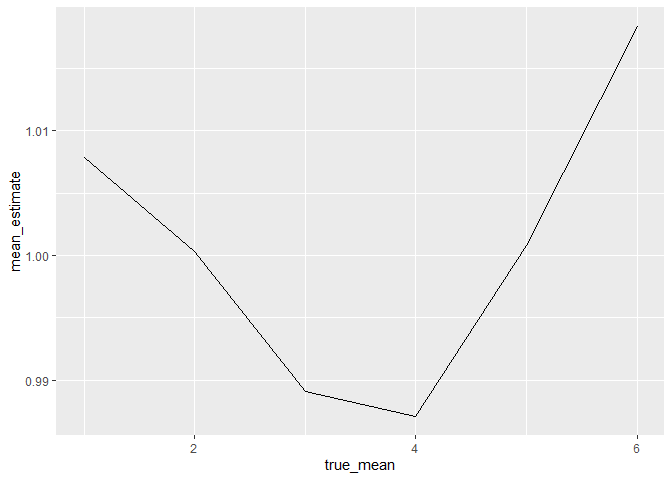
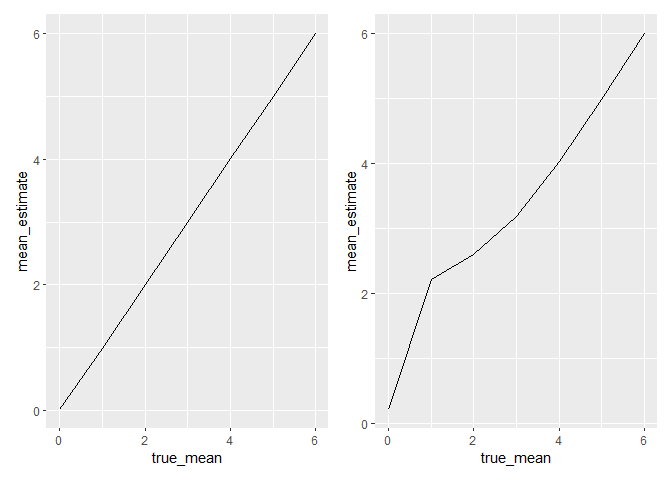
explanations of plots

diff --git a/Homework_5.md b/Homework_5.md
@@ -28,53 +28,66 @@ sim_res %>%
 
 ![](Homework_5_files/figure-gfm/unnamed-chunk-1-1.png)<!-- -->
 
+As the amount of people in the room increases, the probability that 2
+people have the same birthday also increases. The probability that 2
+people have the same birthday reaches 1 at around n = 50. This means if
+there are 50 people in the room, we are certain to have at least 2
+people share a birthday.
+
 # Problem 2
 
 ``` r
-normal_dist <- function(n, true_mean, sd = 5) {
-  sim_data <- rnorm(n = 30, mean = true_mean, sd = 5)
-  t_test <- t.test(sim_data)
-  results <- broom::tidy(t_test)
-  
+ttest <- function(data) {
+  t_test <- t.test(data) %>%  
+    broom::tidy(t_test)
+  return(t_test)
 }
 
 sim_results_df <- 
   expand_grid(
-    sample_size = 30,
-    true_mean = c(1,2,3,4,5,6),
+    true_mean = 0:6,
     iter = 1:5000
   ) %>% 
   mutate(
-    estimate_df = map(sample_size, \(x) normal_dist(x,true_mean, sd))) %>% 
-      unnest(estimate_df) %>% select(estimate, p.value, true_mean) 
+    estimate_df = map(true_mean, \(x) rnorm(30, x, 5)), 
+    test = map(estimate_df, ttest)) %>% 
+  unnest(test)
 
-sim_results_df %>% 
-  filter(p.value < 0.05) %>% 
-  group_by(true_mean) %>% 
-  summarize(count = n()) %>% 
-  ggplot(aes(x = true_mean, y = count)) + geom_line()
+sim_results_df %>%
+  group_by(true_mean) %>%
+ mutate(prop = mean((p.value < .05))) %>%
+  ggplot(aes(x = true_mean, y = prop)) +
+  geom_line()
 ```
 
 ![](Homework_5_files/figure-gfm/unnamed-chunk-2-1.png)<!-- -->
 
+As the true mean increases, power increases. When `true_mean` equals to
+6, the power goes to 1.
+
 ``` r
-sim_results_df %>% 
+full_dataplot <- 
+  sim_results_df %>% 
   group_by(true_mean) %>% 
   summarize(mean_estimate = mean(estimate, na.rm = TRUE)) %>% 
   ggplot(aes(x = true_mean, y = mean_estimate)) +  geom_line()
-```
 
-![](Homework_5_files/figure-gfm/unnamed-chunk-2-2.png)<!-- -->
-
-``` r
-sim_results_df %>% 
+rejected_dataplot <-
+  sim_results_df %>% 
   filter(p.value < 0.05) %>% 
   group_by(true_mean) %>% 
   summarize(mean_estimate = mean(estimate, na.rm = TRUE)) %>% 
   ggplot(aes(x = true_mean, y = mean_estimate))  + geom_line()
+
+full_dataplot + rejected_dataplot
 ```
 
-![](Homework_5_files/figure-gfm/unnamed-chunk-2-3.png)<!-- -->
+![](Homework_5_files/figure-gfm/unnamed-chunk-3-1.png)<!-- -->
+
+The plot across all samples shows that the average estimate $\hat \mu$
+is approximately equal to $\mu$. The plot showing only when `p.value` is
+rejected seems to overestimate $\mu$ at lower `true_mean` values, but as
+the $\mu$ increases, the estimates become more accurate.
 
 # Problem 3
 
@@ -93,7 +106,13 @@ homicide_df <- read_csv("data/homicide-data.csv") %>%
     ## ℹ Use `spec()` to retrieve the full column specification for this data.
     ## ℹ Specify the column types or set `show_col_types = FALSE` to quiet this message.
 
-Describe the data.
+This data has `nrow(homicide_df)` rows and `ncol(homicide_df)` columns.
+It includes the variables `names(homicide_df)`. To make the data easier
+to use, I combined the `city` and `state` variables in the original
+dataset to a single `city_state` column. In order to be able to
+calculate values needed in next questions, I made a column that
+outputted `unsolved` if `disposition` equaled Open/No Arrest or Closed
+Without Arrest and `solved` otherwise.
 
 ``` r
 homicide_df %>% 
@@ -186,4 +205,4 @@ results %>%
   )
 ```
 
-![](Homework_5_files/figure-gfm/unnamed-chunk-6-1.png)<!-- -->
+![](Homework_5_files/figure-gfm/unnamed-chunk-7-1.png)<!-- -->
